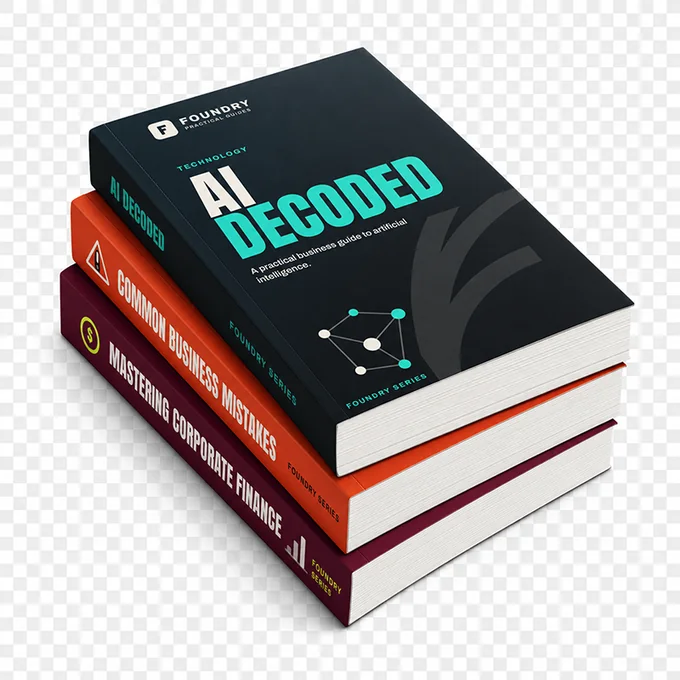
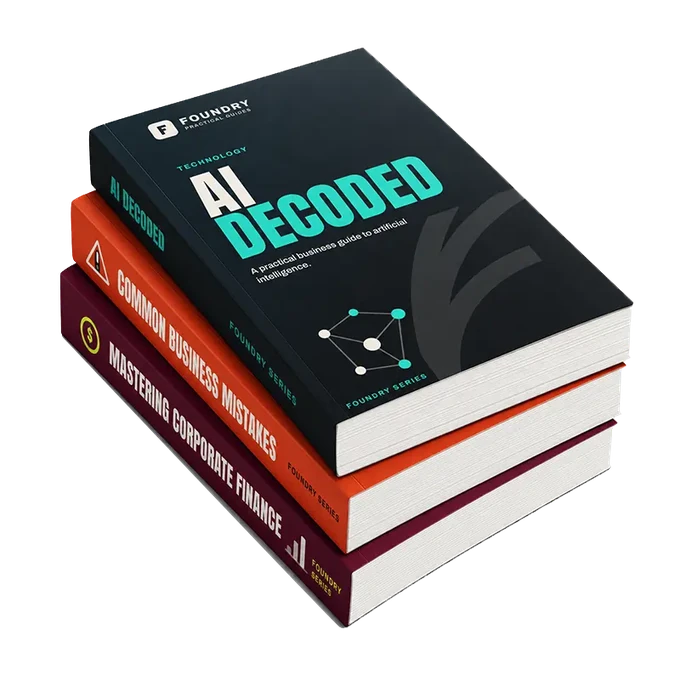
v6: use transparent WebP mockup, remove mix-blend-mode

diff --git a/v6/index.html b/v6/index.html
@@ -665,7 +665,7 @@
 
     <!-- Book mockup visual -->
     <div class="text-center mb-10">
-      <img src="/covers/v2x.webp" alt="FOUNDRY Bundle — physical book mockup" style="max-width:340px;width:80%;height:auto;margin:0 auto;display:block;mix-blend-mode:multiply;filter:drop-shadow(0 12px 32px rgba(0,0,0,0.15));">
+      <img src="/covers/v2x.webp" alt="FOUNDRY Bundle — physical book mockup" style="max-width:340px;width:80%;height:auto;margin:0 auto;display:block;filter:drop-shadow(0 16px 40px rgba(0,0,0,0.2));">
     </div>
 
     <div style="background:#FEF3C7;border:1px solid #FCD34D;border-radius:12px;padding:14px 20px;margin-bottom:24px;display:flex;align-items:center;gap:10px;">